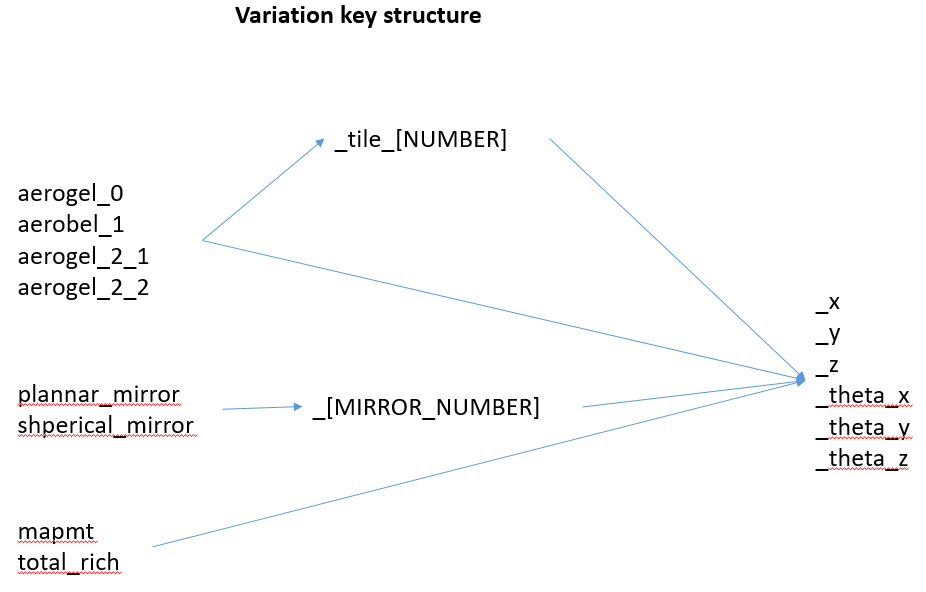
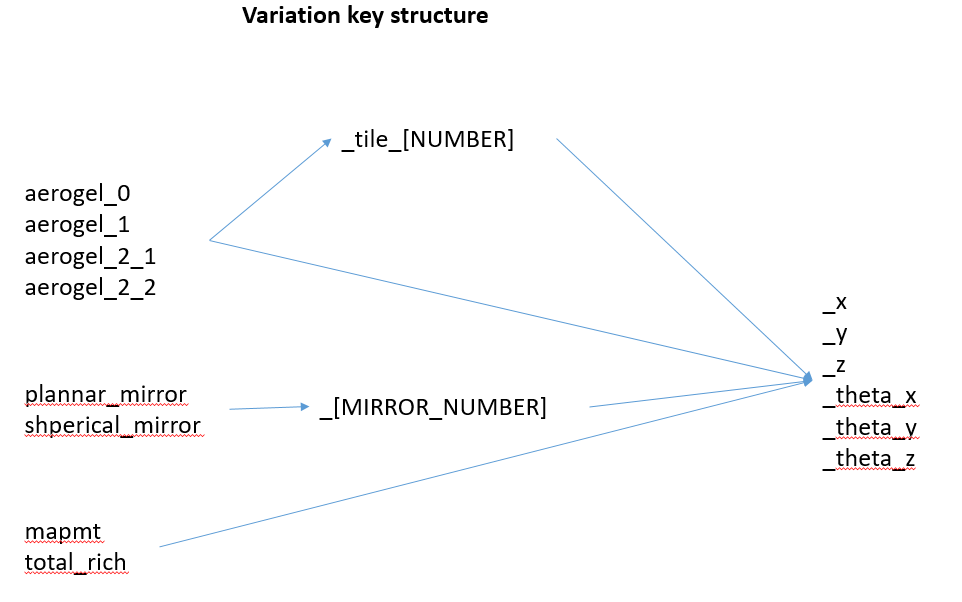
variation tested

diff --git a/src/file_handler/variation_io.py b/src/file_handler/variation_io.py
@@ -27,9 +27,9 @@ class VariationIO(FileIO):
 
             for j, value in enumerate(line_struc[3:]):
                 kw = f'{layer}_'
-                if int(line_struc[1]) < 300 and line_struc[2] != '0':
+                if int(line_struc[1]) > 200 and int(line_struc[1]) < 300 and line_struc[2] != '0':
                     kw += f'tile_{line_struc[2]}_'
-                elif int(line_struc[1]) > 300:
+                elif int(line_struc[1]) > 300 and int(line_struc[1])<400:
                     kw += f'{line_struc[2]}_'
                 kw += f'{self.params[j]}'
                 file_data[kw] = float(value)

diff --git a/src/file_handler/reader_structs.py b/src/file_handler/reader_structs.py
@@ -40,12 +40,12 @@ GEO_FILE_ANGLE_PARAMS = {
 VARIATION_FILE_LINES = {
     0: 'mapmt',
     201: 'aerogel_0',
-    202: 'aerobel_1',
+    202: 'aerogel_1',
     203: 'aerogel_2_1',
     204: 'aerogel_2_2',
     301: 'plannar_mirror',
     302: 'shperical_mirror',
-    401: 'full'
+    401: 'total_rich'
 }
 
 VARIATION_PARAMS = {
